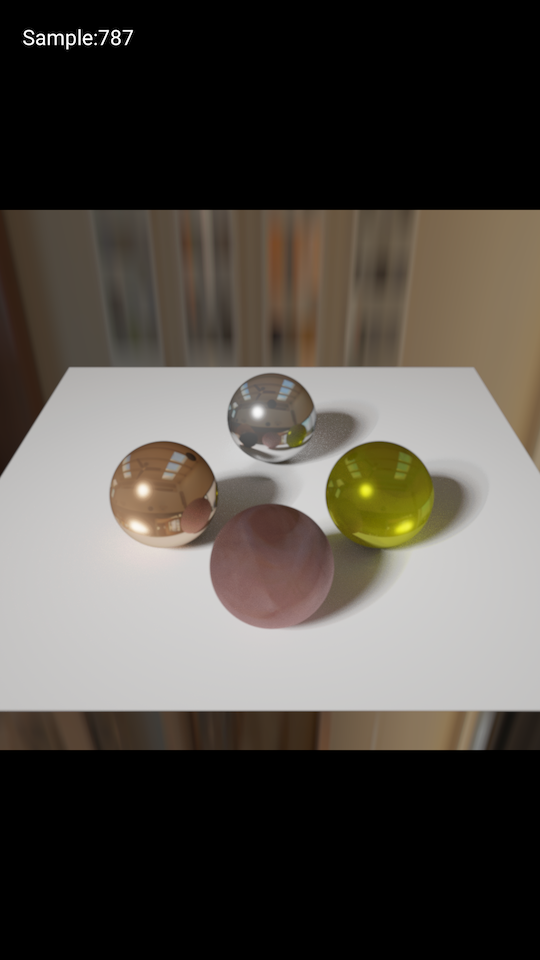
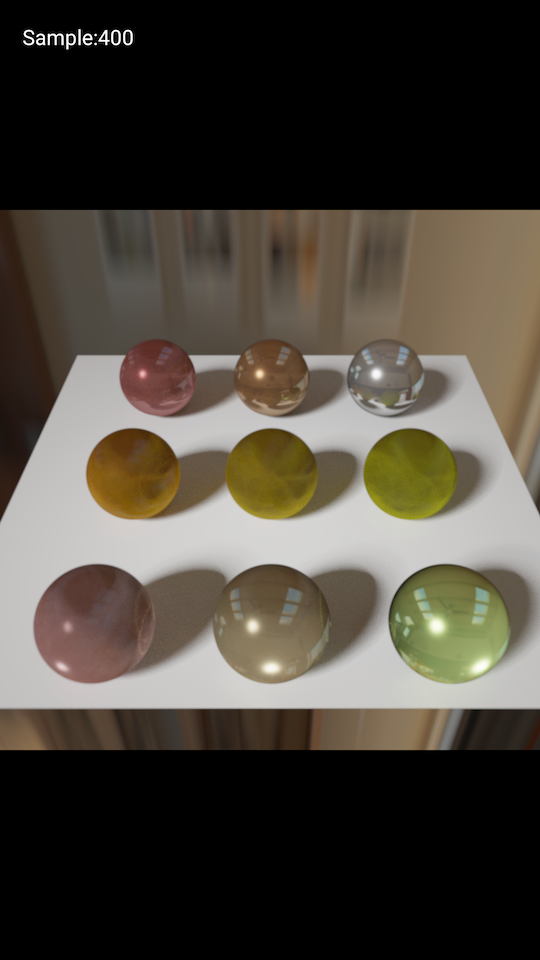
update screenshot

diff --git a/app/src/main/java/com/ragnarok/raytracing/glsl/sphereplane.kt b/app/src/main/java/com/ragnarok/raytracing/glsl/sphereplane.kt
@@ -16,8 +16,8 @@ val spherePlane = """
         Sphere(vec3(0.75, 0.25, 0.25), 0.25, Material(PBR_BRDF, vec3(0.78, 0.78, 0.0), 0.05, 1.0, 1.0, false)),
         
         Sphere(vec3(-0.75, 0.25, 1.25), 0.25, Material(PBR_BRDF, vec3(0.8, 0.5, 0.5), 0.05, 0.05, 0.3, false)),
-        Sphere(vec3(0.0, 0.25, 1.25), 0.25, Material(PBR_BRDF, vec3(0.8, 0.7, 0.5), 0.05, 0.05, 0.6, false)),
-        Sphere(vec3(0.75, 0.25, 1.25), 0.25, Material(PBR_BRDF, vec3(0.8, 1.0, 0.5), 0.05, 0.05, 1.0, false))
+        Sphere(vec3(0.0, 0.25, 1.25), 0.25, Material(PBR_BRDF, vec3(0.8, 0.7, 0.5), 0.5, 0.05, 0.6, false)),
+        Sphere(vec3(0.75, 0.25, 1.25), 0.25, Material(PBR_BRDF, vec3(0.8, 1.0, 0.5), 1.0, 0.05, 1.0, false))
     );
     
     PointLight pointLight = PointLight(vec3(0.0, 1.0, 0.5), 0.1, vec3(1.0), 5.0);
